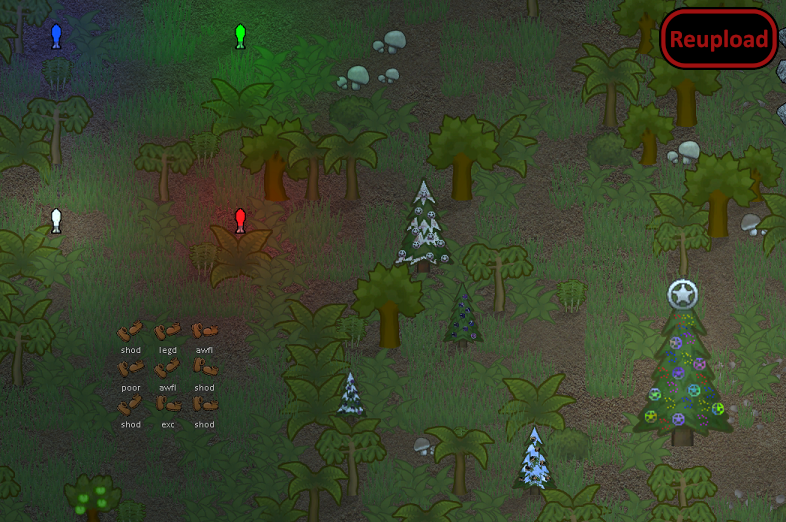
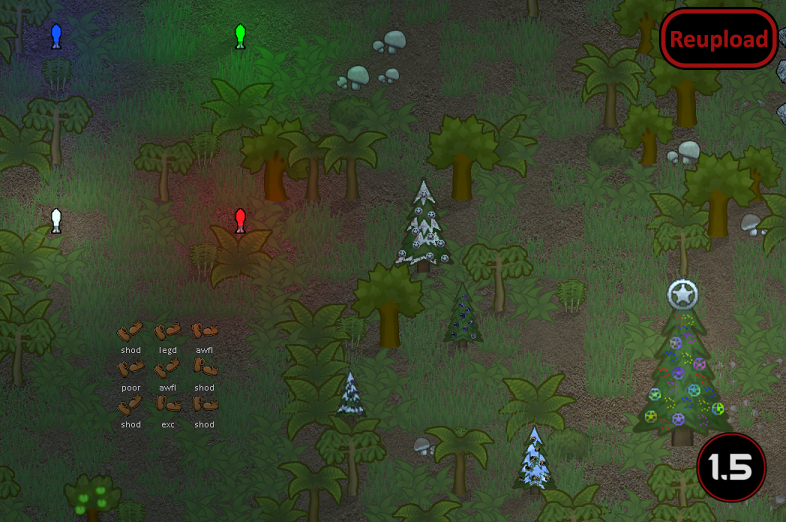
Mod updated for 1.5 and passed autotests

Changed region(s): [[0.8855, 0.8276, 0.9771, 0.9808]]

diff --git a/README.md b/README.md
@@ -28,11 +28,13 @@ More to come!
 
 -  See if the the error persists if you just have this mod and its requirements active.
 -  If not, try adding your other mods until it happens again.
--  Post your error-log using https://steamcommunity.com/workshop/filedetails/?id=818773962]HugsLib and command Ctrl+F12
+-  Post your error-log using https://steamcommunity.com/workshop/filedetails/?id=818773962]HugsLib or the standalone https://steamcommunity.com/sharedfiles/filedetails/?id=2873415404]Uploader and command Ctrl+F12
 -  For best support, please use the Discord-channel for error-reporting.
 -  Do not report errors by making a discussion-thread, I get no notification of that.
 -  If you have the solution for a problem, please post it to the GitHub repository.
+-  Use https://github.com/RimSort/RimSort/releases/latest]RimSort to sort your mods
 
 
 
+https://steamcommunity.com/sharedfiles/filedetails/changelog/2310005890]![Image](https://img.shields.io/github/v/release/emipa606/HollidayStuff?label=latest%20version&style=plastic&color=9f1111&labelColor=black)
 
